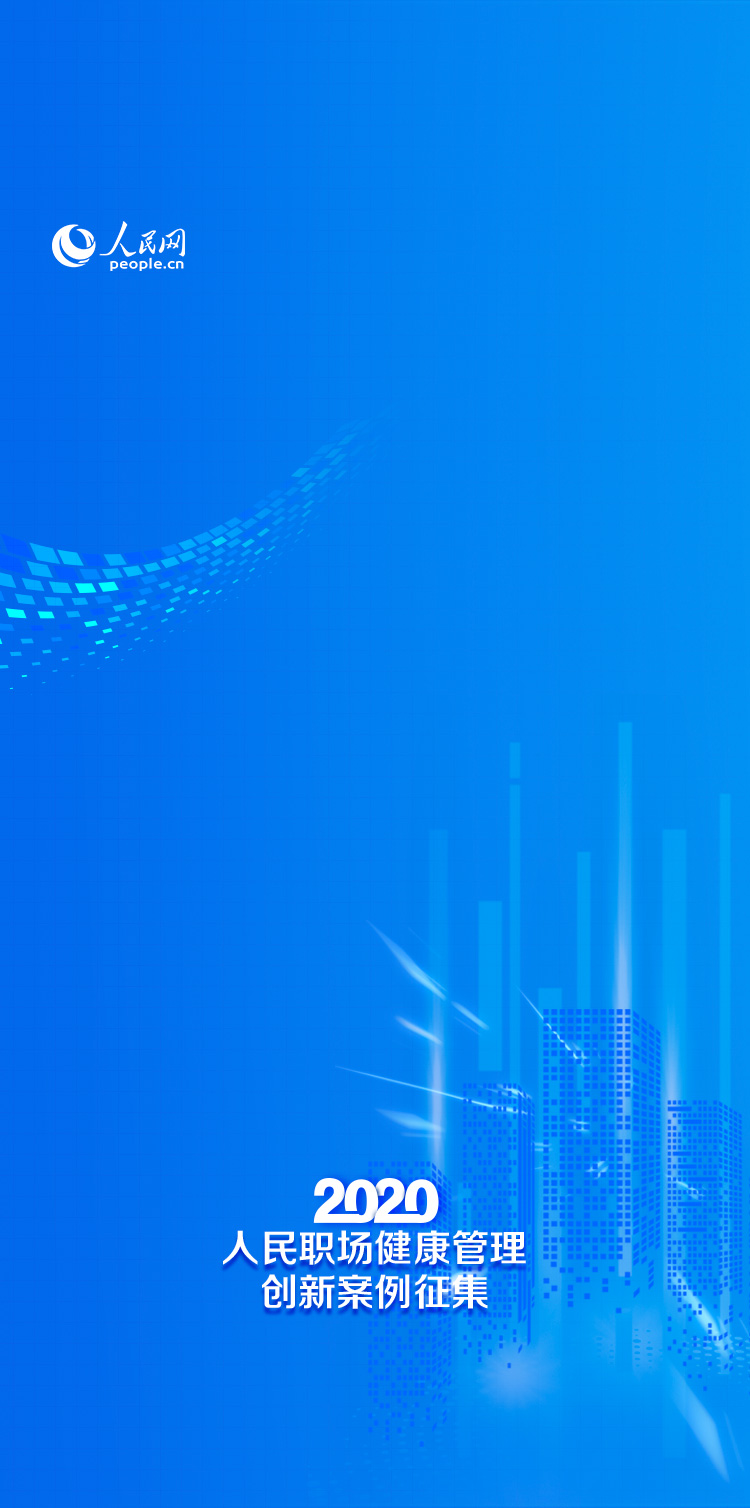
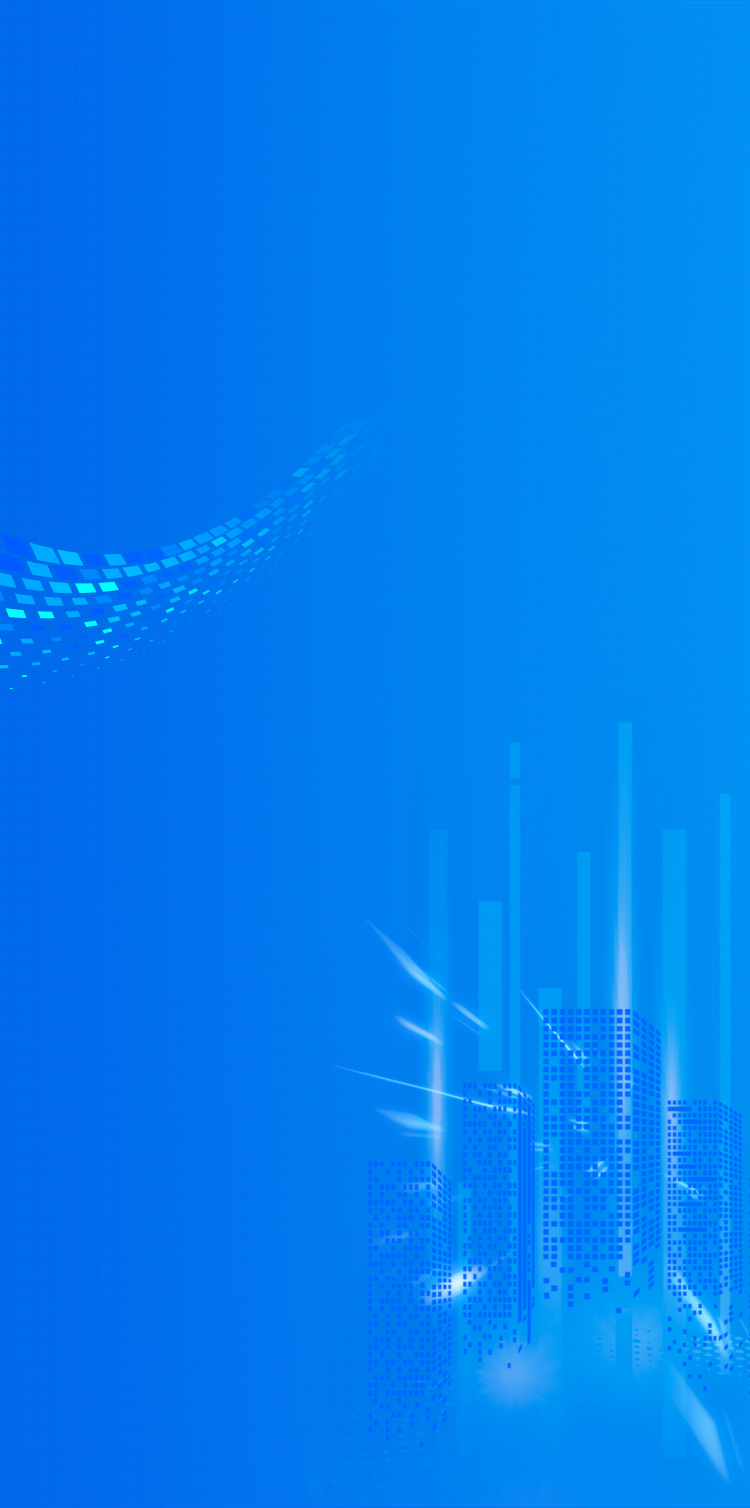
save

Changed region(s): [[0.3067, 0.7792, 0.7053, 0.8727], [0.0613, 0.1247, 0.2453, 0.187]]

diff --git a/dist/index.html b/dist/index.html
@@ -33,7 +33,7 @@
     <!-- 页面[page1]-->
     <div class="page-1 page" template="page1" style="display: none;"><img class="so so-0" src="./static/resource/48.png" go="page2"></div>
     <!-- 页面[page2]-->
-    <div class="page2 page" template="page2" style="display: none;"><div class="swiper-container"><div class="swiper-wrapper"><div class="swiper-slide"><img class="so so-0" src="./static/resource/46.png"></div><div class="swiper-slide"><img class="so so-1" src="./static/resource/143.png"></div><div class="swiper-slide"><img class="so so-2" src="./static/resource/78.png"></div><div class="swiper-slide"><img class="so so-3" src="./static/resource/76.png"></div><div class="swiper-slide"><img class="so so-4-0" src="./static/resource/95.png"><img class="so so-4-1" src="./static/resource/59.png" go="page3"><img class="so so-4-2" src="./static/resource/71.png"></div></div></div></div>
+    <div class="page2 page" template="page2" style="display: none;"><img class="so logo" src="./static/resource/35.png"><div class="swiper-container"><div class="swiper-wrapper"><div class="swiper-slide"><img class="so so-0" src="./static/resource/46.png"></div><div class="swiper-slide"><img class="so so-1" src="./static/resource/143.png"></div><div class="swiper-slide"><img class="so so-2" src="./static/resource/78.png"></div><div class="swiper-slide"><img class="so so-3" src="./static/resource/76.png"></div><div class="swiper-slide"><img class="so so-4-0" src="./static/resource/95.png"><img class="so so-4-1" src="./static/resource/59.png" go="page3"><img class="so so-4-2" src="./static/resource/71.png"></div></div></div></div>
     <!-- 页面[page3]-->
     <div class="page3 page" template="page3" style="display: none;"><img class="so bg" src="./static/resource/51.png"><input class="so so-0"><input class="so so-1"><input class="so so-2"><input class="so so-3"><input class="so so-4"><img class="so so-5" src="./static/resource/72.png"></div>
     <!-- 页面[page4]-->

diff --git a/dist/static/js/owo.core.js b/dist/static/js/owo.core.js
@@ -1,4 +1,4 @@
-// Sun Jul 19 2020 23:41:04 GMT+0800 (GMT+08:00)
+// Sun Jul 19 2020 23:47:31 GMT+0800 (GMT+08:00)
 var owo = {tool: {},state: {},};
 /* 方法合集 */
 var _owo = {

diff --git a/dist/static/css/owo.core.css b/dist/static/css/owo.core.css
@@ -113,6 +113,12 @@ li {
   top: 948px;
   z-index: 0;
 }
+
+.page2 .logo {
+  left: 52px;
+  top: 221px;
+  z-index: 0;
+}
 .page3 .bg {
   left: 58px;
   top: 207px;
